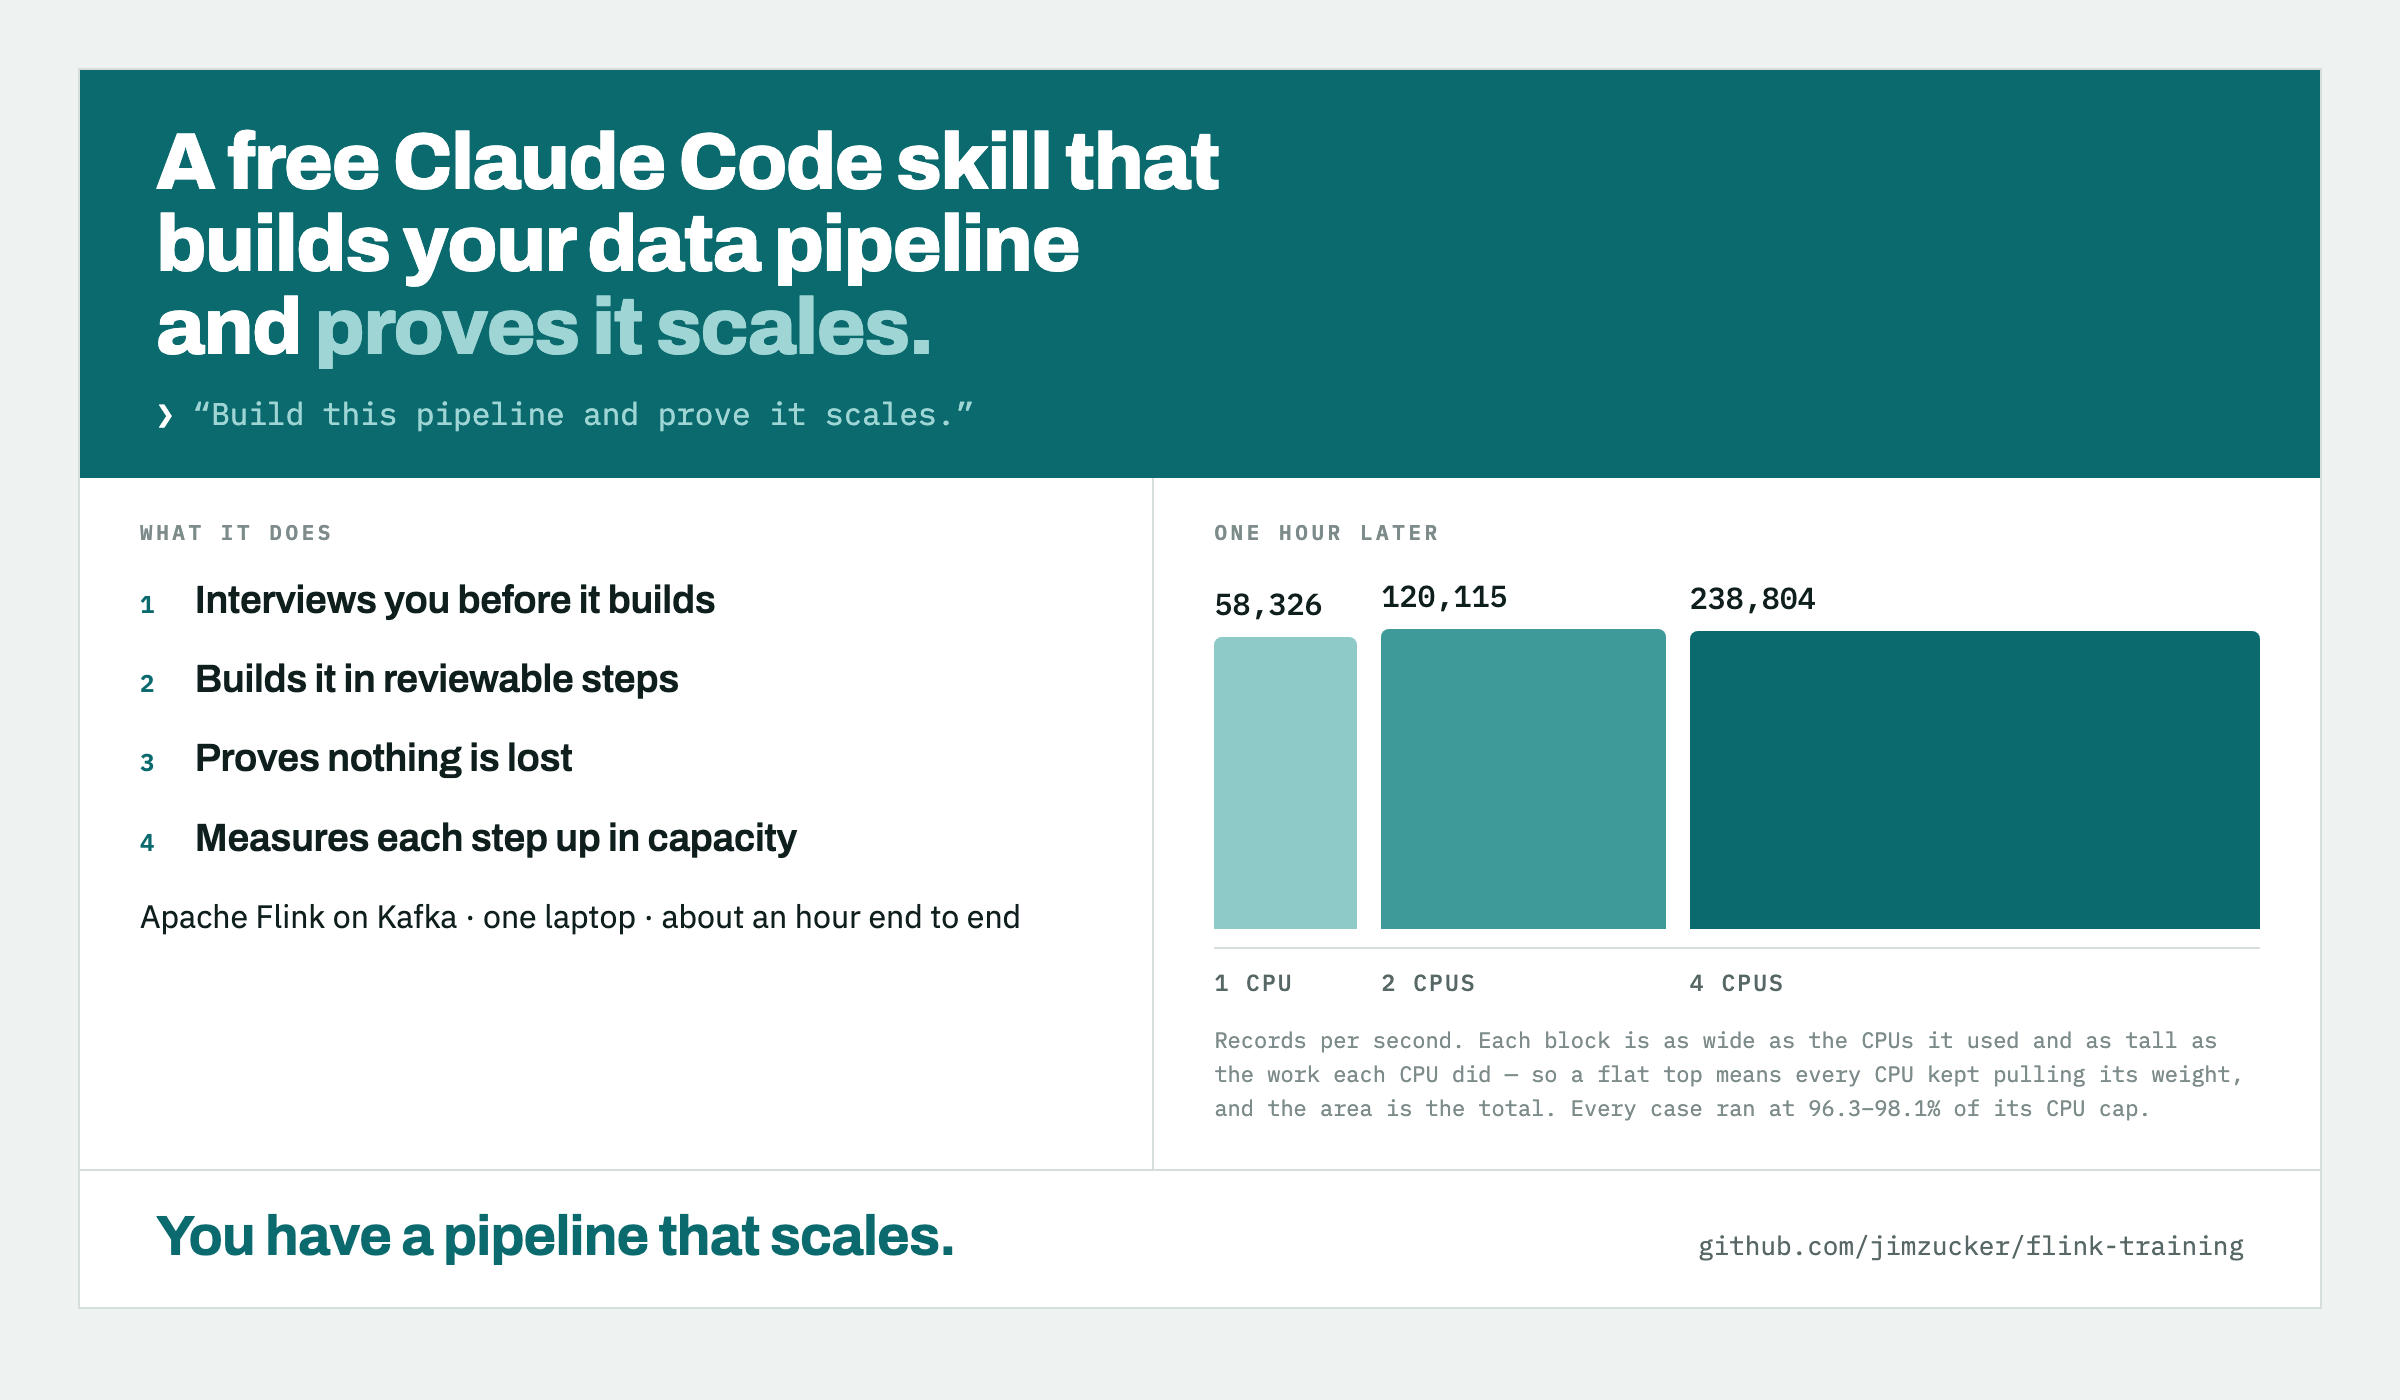
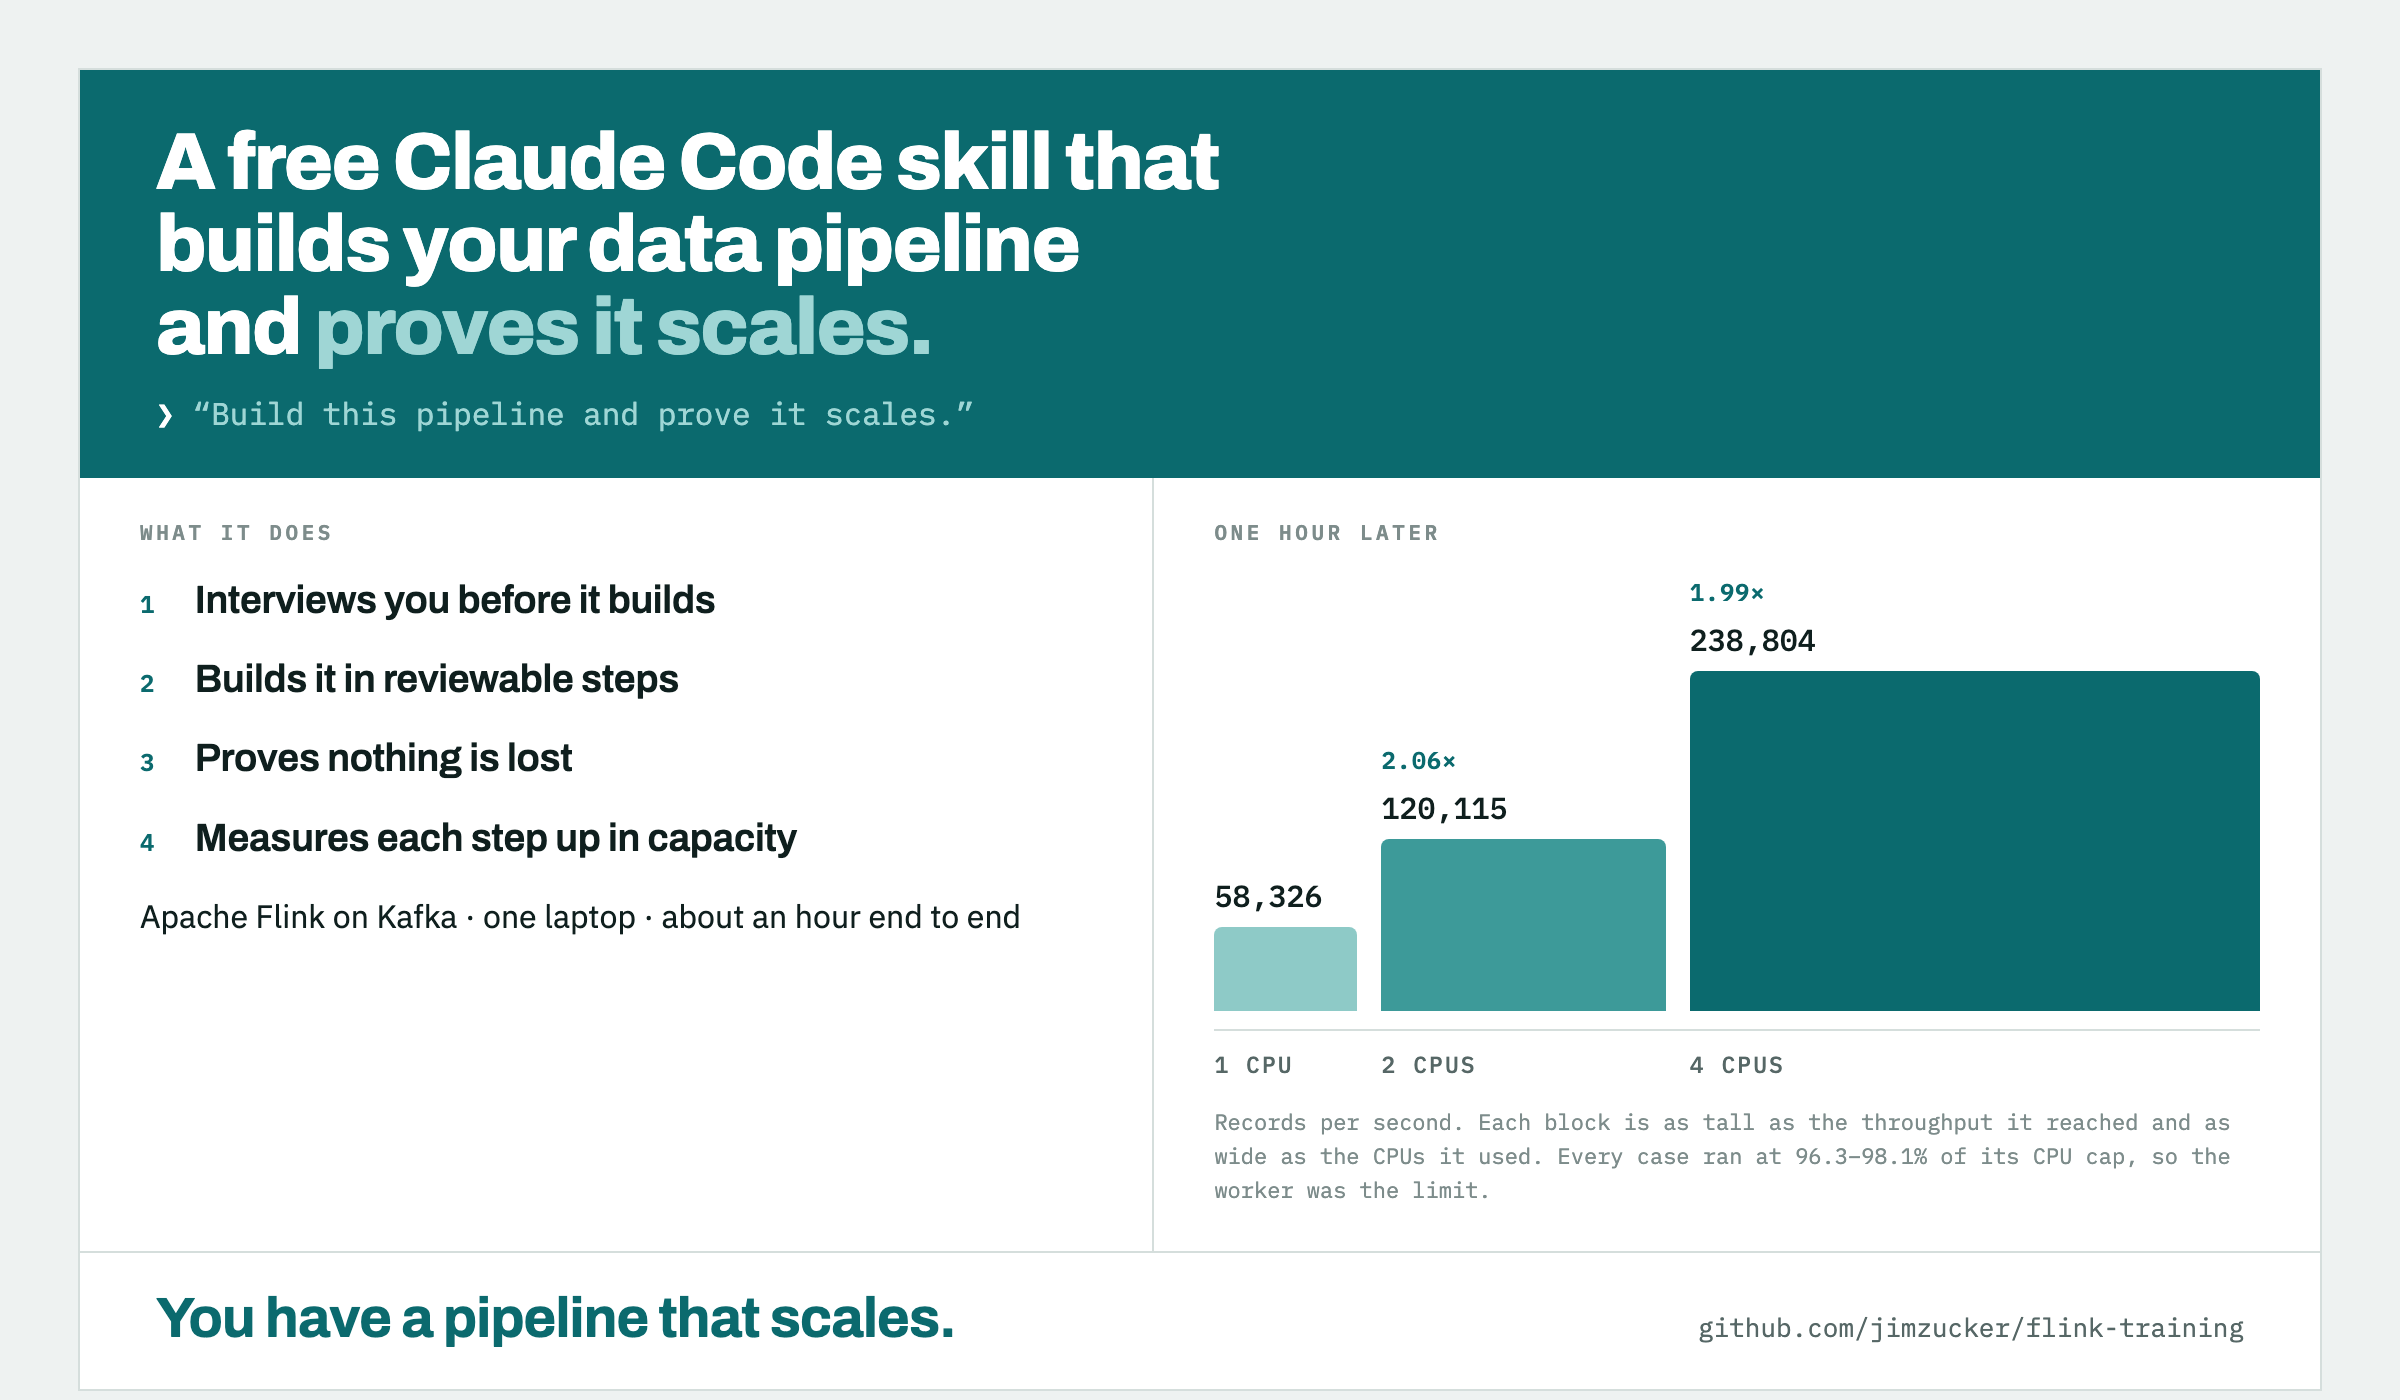
card: bars grow taller and wider
Height is total throughput again -- 58,326 / 120,115 / 238,804 -- so the
growth is visible at a glance, and width stays proportional to the CPUs
used, which is the look the author asked for twice. The 2.06x and 1.99x
step multipliers come back above the bars.

The flat-topped per-CPU version proved linear scaling precisely but read
as "no growth" to a scroller, which is the wrong first impression for a
feed graphic.

Both dimensions are labelled and true on their own; only the area is not
a quantity, and the caption names what each dimension is.

Claude-Session: https://claude.ai/code/session_01AjkvqMLZHUt62am9UZupty

Changed region(s): [[0.5, 0.3993, 0.9688, 0.86], [0.0625, 0.86, 0.4062, 0.9829], [0.7188, 0.8907, 0.9375, 0.9521]]

diff --git a/docs/scalable-flink-skill/card.html b/docs/scalable-flink-skill/card.html
@@ -111,13 +111,22 @@
     color:var(--ink);
   }
 
-  /* ---- chart: width = CPUs, height = throughput per CPU, so area = total ---- */
+  /* ---- chart: height = throughput reached, width = CPUs used ---- */
   .plot{
     display:flex;
     align-items:flex-end;
     gap:12px;
   }
-  .col-bar{display:flex;flex-direction:column;justify-content:flex-end;gap:7px}
+  .col-bar{display:flex;flex-direction:column;justify-content:flex-end;gap:6px}
+  .chip{
+    font-family:var(--mono);
+    font-size:12px;
+    font-weight:600;
+    letter-spacing:.03em;
+    color:var(--accent);
+    min-height:1.2em;
+    white-space:nowrap;
+  }
   .val{
     font-family:var(--mono);
     font-size:clamp(12px,1.5vw,15px);
@@ -206,16 +215,19 @@
 
       <div class="plot">
         <div class="col-bar" style="width:74px">
+          <span class="chip">&nbsp;</span>
           <span class="val">58,326</span>
-          <div class="bar" style="height:146px;background:var(--b1)"></div>
+          <div class="bar" style="height:42px;background:var(--b1)"></div>
         </div>
         <div class="col-bar" style="width:147px">
+          <span class="chip">2.06&times;</span>
           <span class="val">120,115</span>
-          <div class="bar" style="height:150px;background:var(--b2)"></div>
+          <div class="bar" style="height:86px;background:var(--b2)"></div>
         </div>
         <div class="col-bar" style="width:295px">
+          <span class="chip">1.99&times;</span>
           <span class="val">238,804</span>
-          <div class="bar" style="height:149px;background:var(--b3)"></div>
+          <div class="bar" style="height:170px;background:var(--b3)"></div>
         </div>
       </div>
 
@@ -225,7 +237,7 @@
         <div style="width:295px">4 CPUs</div>
       </div>
 
-      <p class="note">Records per second. Each block is as wide as the CPUs it used and as tall as the work each CPU did &mdash; so a flat top means every CPU kept pulling its weight, and the area is the total. Every case ran at 96.3&ndash;98.1% of its CPU cap.</p>
+      <p class="note">Records per second. Each block is as tall as the throughput it reached and as wide as the CPUs it used. Every case ran at 96.3&ndash;98.1% of its CPU cap, so the worker was the limit.</p>
     </div>
 
   </section>
